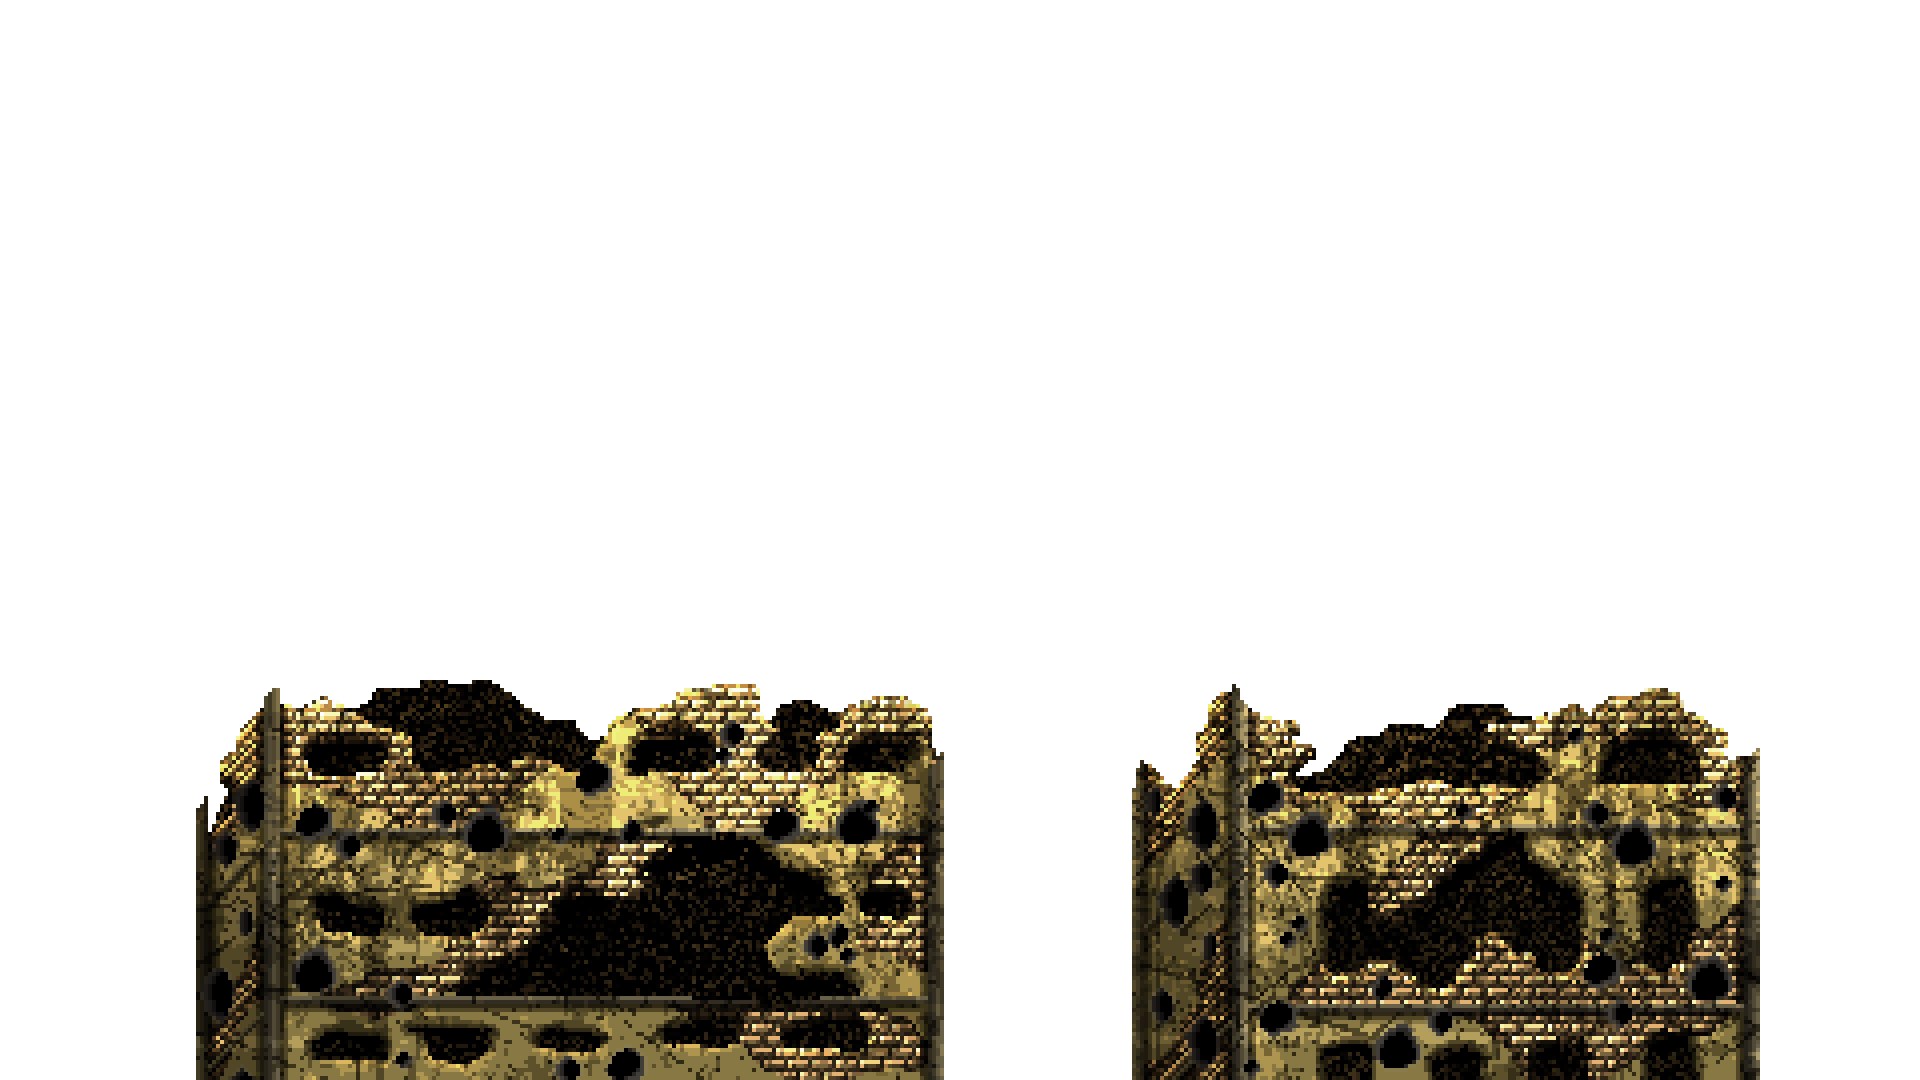
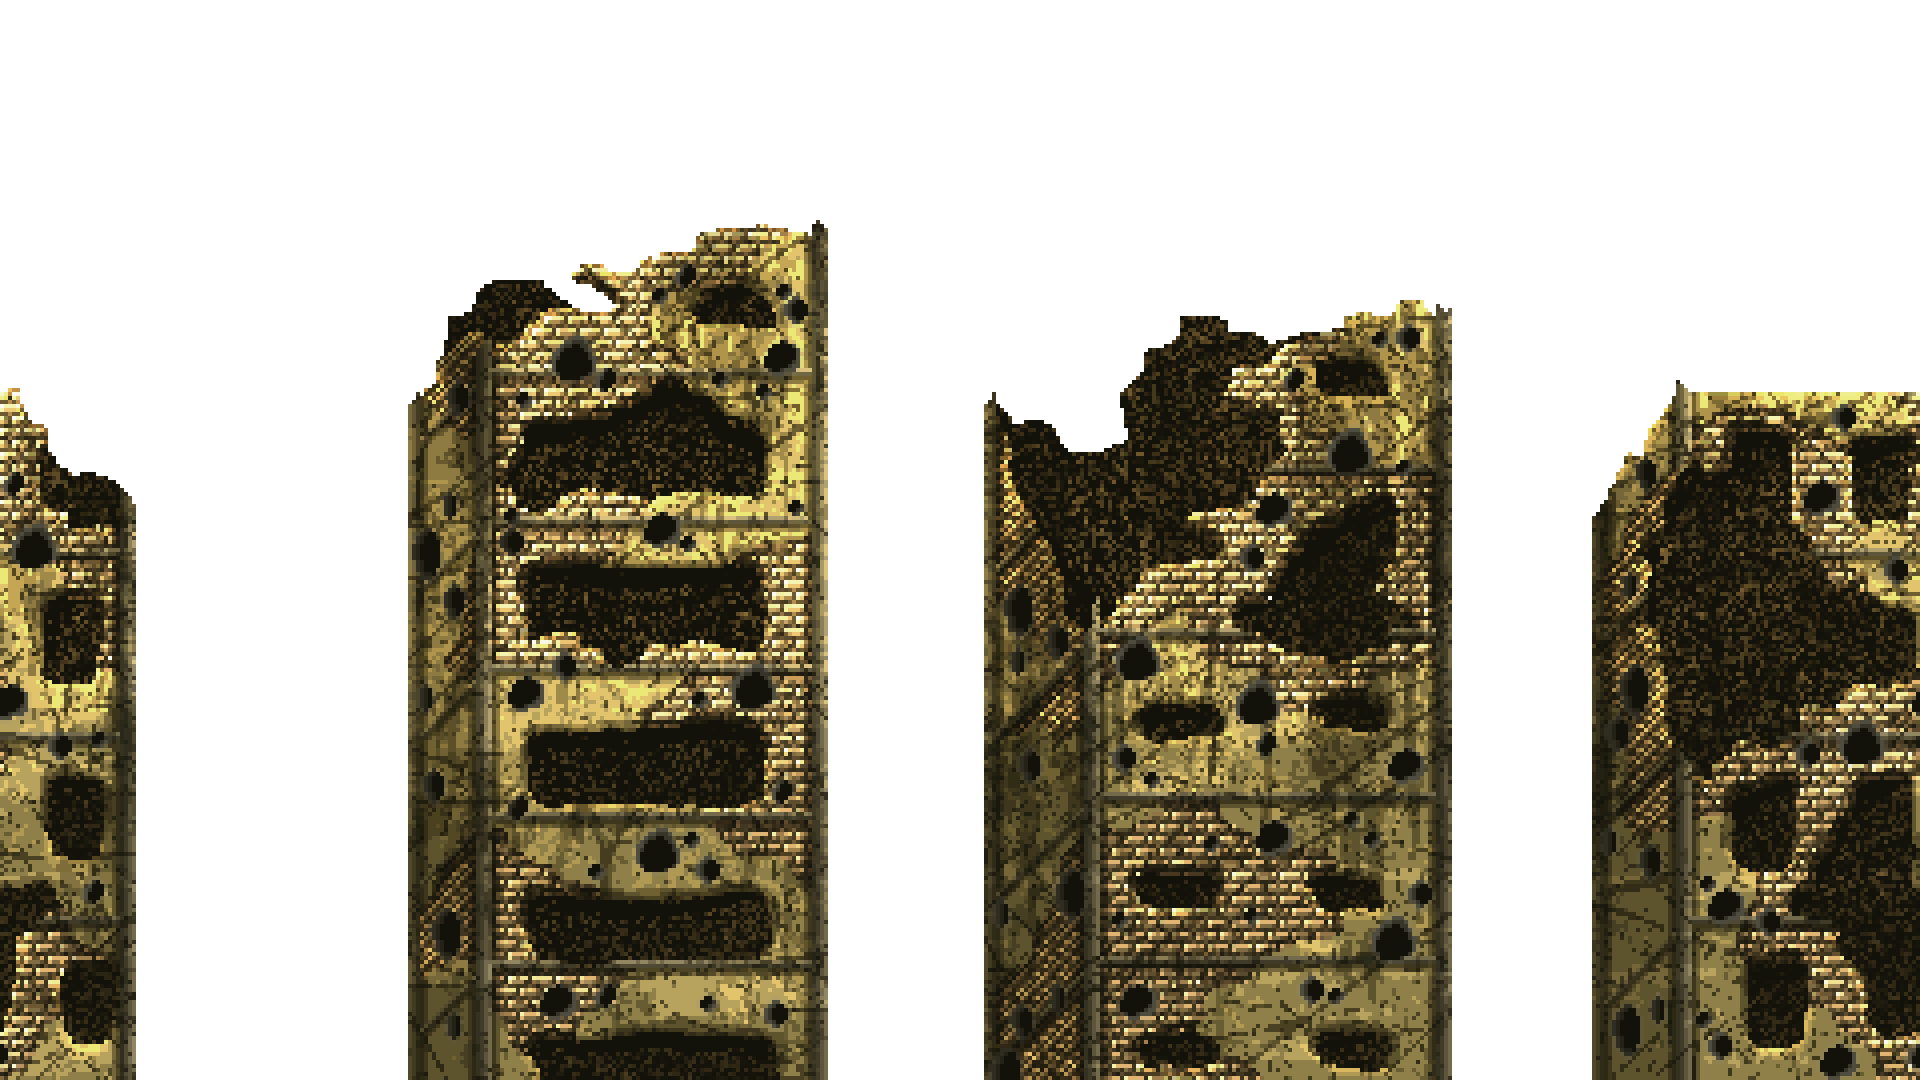
ajustando velocidade das imagens

diff --git a/code/Const.py b/code/Const.py
@@ -13,3 +13,16 @@ MENU_OPTION =("NEW GAME 1P",
               "NEW GAME 2P COMPETITIVE",
               "SCORE",
               "EXIT")
+
+#E
+ENTITY_SPEED = {'Level1Bg0': 0,
+                'Level1Bg1': 0,
+                'Level1Bg2': 1,
+                'Level1Bg3': 4,
+                'Level1Bg4': 7,
+                'Level1Bg5': 10,
+                'Level1Bg6': 13,
+                'Level1Bg7': 16,
+                'Level1Bg8': 19,
+                'Level1Bg9': 22,
+                'Level1Bg10': 25,}

diff --git a/code/EntityFactory.py b/code/EntityFactory.py
@@ -1,4 +1,5 @@
 from code.Background import Background
+from code.Const import WIN_WIDTH
 
 
 class EntityFactory:
@@ -7,6 +8,7 @@ class EntityFactory:
         match entity_name:
             case 'Level1Bg':
                 list_bg = []
-                for i in range(11):
+                for i in range(10):
                     list_bg.append(Background(f'Level1Bg{i}', (0, 0)))
+                    list_bg.append(Background(f'Level1Bg{i}', (WIN_WIDTH, 0)))
                 return list_bg

diff --git a/code/Background.py b/code/Background.py
@@ -1,5 +1,6 @@
 #!/usr/bin/python
 # -*- coding: utf-8 -*-
+from code.Const import WIN_WIDTH, ENTITY_SPEED
 from code.Entity import Entity
 
 
@@ -8,4 +9,7 @@ class Background(Entity):
         super().__init__(name, position)
 
     def move(self, ):
+        self.rect.centerx -= ENTITY_SPEED[self.name]
+        if self.rect.right <= 0:
+            self.rect.left = WIN_WIDTH
         pass
